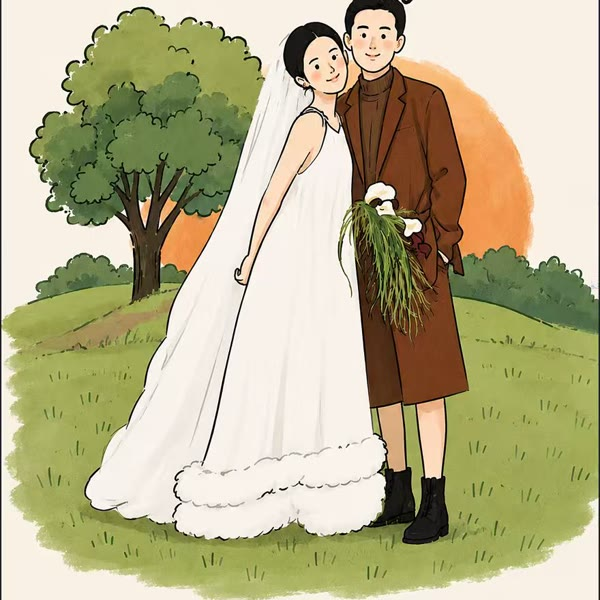
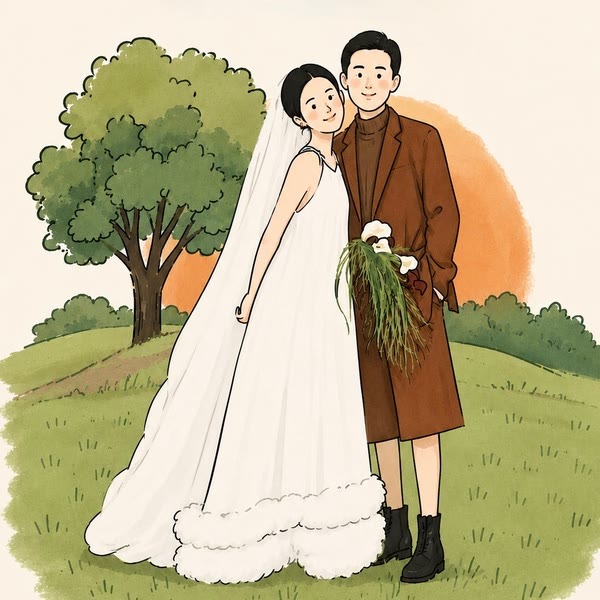
Make the QR clickable, reword the RSVP line, refresh the share card
- Both pages: the QR is now an <a> around the image, opening the survey in a
  new tab with rel="noopener". .qr gains display:block so the anchor keeps the
  original geometry (70x70 box, 52x52 image, unchanged). Each page's href was
  cross-checked against the QR image printed on that same page by decoding it
  in the browser, so scanning and tapping lead to the same place:
    invitation/        -> https://wj.qq.com/s2/27539555/hgj1/
    invitation_dining/ -> https://wj.qq.com/s2/27542956/kdj6/
- Both pages: RSVP line becomes 请在9月12日前扫描或点击下方二维码填写您的宾客信息.
  The longer sentence wraps to two lines at 320px and stays on one line from
  375px up.
- Replace share-card.jpg on both pages with the new illustration, resized
  1024 -> 600 with Lanczos. The source is already square, so this is the full
  artwork rather than a crop; og:image:width/height stay correct at 600.

diff --git a/invitation/index.html b/invitation/index.html
@@ -375,6 +375,7 @@
     margin:0 0 20px;
   }
   .qr{
+    display:block;   /* 二维码可点击，<a> 需为块级才能保持原尺寸 */
     width:70px;
     height:70px;
     margin:0 auto;
@@ -557,8 +558,8 @@
 
   <div class="divider"><span class="line"></span><span class="dot"></span><span class="line"></span></div>
 
-  <p class="rsvp-title">请在9月12日前识别二维码填写您的宾客信息</p>
-  <div class="qr"><img src="qr.ceremony.png" alt="宾客信息问卷二维码"></div>
+  <p class="rsvp-title">请在9月12日前扫描或点击下方二维码填写您的宾客信息</p>
+  <a class="qr" href="https://wj.qq.com/s2/27539555/hgj1/" target="_blank" rel="noopener"><img src="qr.ceremony.png" alt="宾客信息问卷二维码"></a>
 
   <div class="closing">
     <p class="sub-title">写在最后</p>

diff --git a/invitation_dining/index.html b/invitation_dining/index.html
@@ -314,6 +314,7 @@
     margin:0 0 20px;
   }
   .qr{
+    display:block;   /* 二维码可点击，<a> 需为块级才能保持原尺寸 */
     width:70px;
     height:70px;
     margin:0 auto;
@@ -456,8 +457,8 @@
 
   <div class="divider"><span class="line"></span><span class="dot"></span><span class="line"></span></div>
 
-  <p class="rsvp-title">请在9月12日前识别二维码填写您的宾客信息</p>
-  <div class="qr"><img src="qr.dining.png" alt="宾客信息问卷二维码"></div>
+  <p class="rsvp-title">请在9月12日前扫描或点击下方二维码填写您的宾客信息</p>
+  <a class="qr" href="https://wj.qq.com/s2/27542956/kdj6/" target="_blank" rel="noopener"><img src="qr.dining.png" alt="宾客信息问卷二维码"></a>
 
   <div class="closing">
     <p class="sub-title">写在最后</p>
